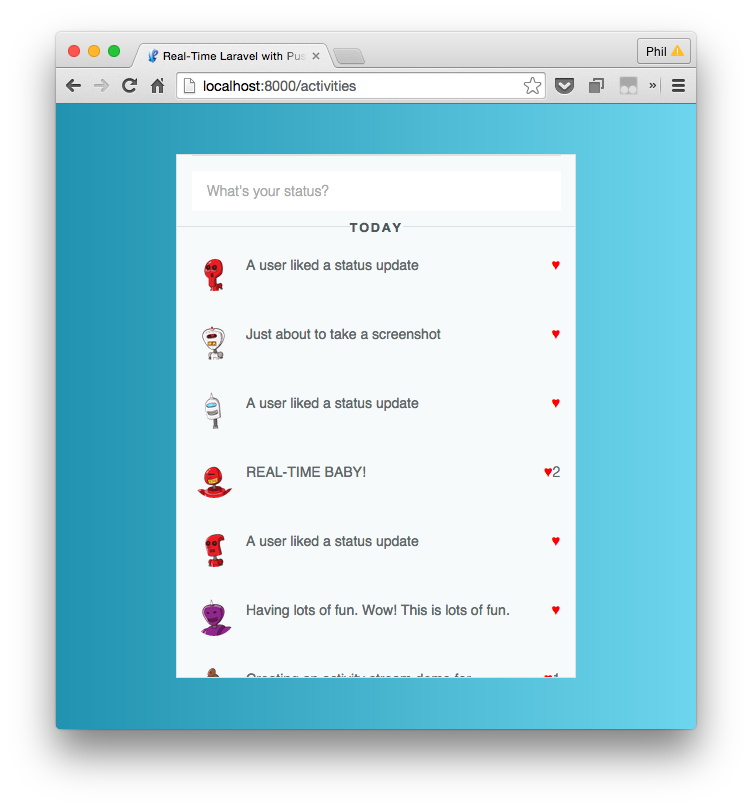
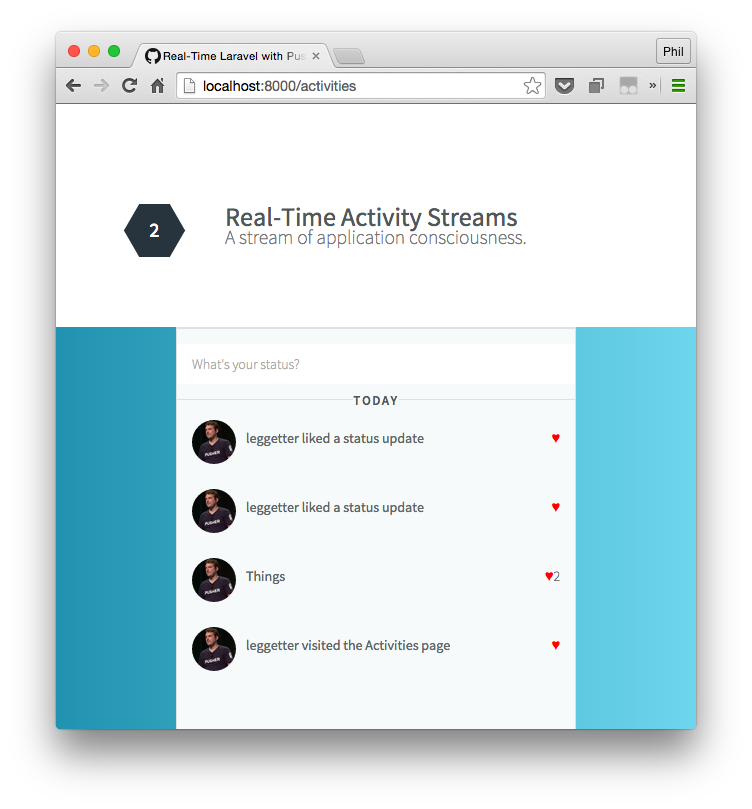
activity streams complete

diff --git a/_laravel_templates/activity-stream-tweaks.css b/_laravel_templates/activity-stream-tweaks.css
@@ -1,0 +1,42 @@
+.chat-app {
+    width: 400px;
+    margin: auto;
+    margin-top: 50px;
+}
+
+#status_form {
+    margin-bottom: 15px;
+    overflow: auto;
+}
+
+#status_text {
+    width: 100%;
+    padding-bottom: 10px;
+    margin-top: 15px;
+}
+
+#activities {
+    height: 400px;
+    max-height: 450px;
+    overflow: auto;
+}
+
+.chat-app .message:first-child {
+    margin-top: 15px;
+}
+
+.like-heart {
+    color: red;
+    cursor: pointer;
+}
+
+.message-data {
+    float: right;
+    margin-top: 9px !important;
+}
+
+.activity-text {
+    float: left;
+    width: 275px;
+    margin-top: 9px !important;
+}

diff --git a/assets/laravel_app/activity-stream-tweaks.css b/assets/laravel_app/activity-stream-tweaks.css
@@ -1,0 +1,42 @@
+.chat-app {
+    width: 400px;
+    margin: auto;
+    margin-top: 50px;
+}
+
+#status_form {
+    margin-bottom: 15px;
+    overflow: auto;
+}
+
+#status_text {
+    width: 100%;
+    padding-bottom: 10px;
+    margin-top: 15px;
+}
+
+#activities {
+    height: 450px;
+    max-height: 450px;
+    overflow: auto;
+}
+
+.chat-app .message:first-child {
+    margin-top: 15px;
+}
+
+.like-heart {
+    color: red;
+    cursor: pointer;
+}
+
+.message-data {
+    float: right;
+    margin-top: 9px !important;
+}
+
+.activity-text {
+    float: left;
+    width: 275px;
+    margin-top: 9px !important;
+}

diff --git a/_laravel_templates/activities.blade.php b/_laravel_templates/activities.blade.php
@@ -1,0 +1,177 @@
+<!DOCTYPE html>
+<html>
+<head>
+    <title>Real-Time Laravel with Pusher</title>
+    <meta name="csrf-token" content="{{ csrf_token() }}" />
+
+    <link href="//fonts.googleapis.com/css?family=Source+Sans+Pro:200,300,400,600,700,200italic,300italic" rel="stylesheet" type="text/css">
+    <link rel="stylesheet" type="text/css" href="http://d3dhju7igb20wy.cloudfront.net/assets/0-4-0/all-the-things.css" />
+    <link rel="stylesheet" type="text/css" href="https://pusher-community.github.io/real-time-laravel/assets/laravel_app/activity-stream-tweaks.css" />
+
+    <script src="//code.jquery.com/jquery-1.11.3.min.js"></script>
+    <script src="//js.pusher.com/3.0/pusher.min.js"></script>
+
+    <script>
+        // Ensure CSRF token is sent with AJAX requests
+        $.ajaxSetup({
+            headers: {
+                'X-CSRF-TOKEN': $('meta[name="csrf-token"]').attr('content')
+            }
+        });
+
+        // Added Pusher logging
+        Pusher.log = function(msg) {
+            console.log(msg);
+        };
+    </script>
+</head>
+<body>
+
+<div class="stripe no-padding-bottom numbered-stripe">
+    <div class="fixed wrapper">
+        <ol class="strong" start="2">
+            <li>
+                <div class="hexagon"></div>
+                <h2><b>Real-Time Activity Streams</b> <small>A stream of application consciousness.</small></h2>
+            </li>
+        </ol>
+    </div>
+</div>
+
+<section class="blue-gradient-background">
+    <div class="chat-app light-grey-blue-background">
+        <form id="status_form" action="/activities/status-update" method="post">
+            <div class="action-bar">
+                <input id="status_text" name="status_text" class="input-message col-xs-9" placeholder="What's your status?" />
+            </div>
+        </form>
+
+        <div class="time-divide">
+            <span class="date">
+              Today
+            </span>
+        </div>
+
+        <div id="activities"></div>
+    </div>
+</section>
+
+<script id="activity_template" type="text/template">
+    <div class="message activity">
+        <div class="avatar">
+            <img src="" />
+        </div>
+        <div class="text-display">
+            <p class="message-body activity-text"></p>
+            <div class="message-data">
+                <span class="timestamp"></span>
+                <span class="likes"><span class="like-heart">&hearts;</span><span class="like-count"></span></span>
+            </div>
+        </div>
+    </div>
+</script>
+
+<script>
+    function init() {
+        // set up form submission handling
+        $('#status_form').submit(statusUpdateSubmit);
+
+        // monitor clicks on activity elements
+        $('#activities').on('click', handleLikeClick);
+    }
+
+    // Handle the form submission
+    function statusUpdateSubmit() {
+        var statusText = $('#status_text').val();
+        if(statusText.length < 3) {
+            return;
+        }
+
+        // Build POST data and make AJAX request
+        var data = {status_text: statusText};
+        $.post('/activities/status-update', data).success(statusUpdateSuccess);
+
+        // Ensure the normal browser event doesn't take place
+        return false;
+    }
+
+    // Handle the success callback
+    function statusUpdateSuccess() {
+        $('#status_text').val('')
+        console.log('status update submitted');
+    }
+
+    // Creates an activity element from the template
+    function createActivityEl() {
+        var text = $('#activity_template').text();
+        var el = $(text);
+        return el;
+    }
+
+    // Handles the like (heart) element being clicked
+    function handleLikeClick(e) {
+        var el = $(e.srcElement || e.target);
+        if (el.hasClass('like-heart')) {
+            var activityEl = el.parents('.activity');
+            var activityId = activityEl.attr('data-activity-id');
+            sendLike(activityId);
+        }
+    }
+
+    // Makes a POST request to the server to indicate an activity being `liked`
+    function sendLike(id) {
+        $.post('/activities/like/' + id).success(likeSuccess);
+    }
+
+    // Success callback handler for the like POST
+    function likeSuccess() {
+        console.log('like posted');
+    }
+
+    // Increments the like count for an activity
+    function incrementLikeCount(id) {
+        var activityEl = $('#activities .activity[data-activity-id=' + id + ']');
+        var likeCountEl = activityEl.find('.like-count');
+        var currentCount = parseInt(likeCountEl.text() || 0, 10);
+        likeCountEl.text(++currentCount);
+    }
+
+    function addActivity(type, data) {
+        var activityEl = createActivityEl();
+        activityEl.addClass(type + '-activity');
+        activityEl.find('.activity-text').html(data.text);
+        activityEl.attr('data-activity-id', data.id);
+        activityEl.find('.avatar img').attr('src', data.avatar);
+
+        $('#activities').prepend(activityEl);
+    }
+
+    // Handle the user visited the activities page event
+    function addUserVisit(data) {
+        addActivity('user-visit', data);
+    }
+
+    // Handle the status update event
+    function addStatusUpdate(data) {
+        addActivity('status-update', data);
+    }
+
+    $(init);
+
+    /***********************************************/
+
+    var pusher = new Pusher('{{env("PUSHER_KEY")}}');
+
+    // TODO: Subscribe to the channel
+
+    // TODO: bind to each event on the channel
+    // and assign the appropriate handler
+    
+    // TODO: bind to the `status-update-liked` event
+    // and define your own callback handler function.
+    // If time, increment the like count for an activity.
+
+</script>
+
+</body>
+</html>

diff --git a/assets/laravel_app/notification.blade.php b/assets/laravel_app/notification.blade.php
@@ -44,7 +44,7 @@
     <div class="container center-all-container">
         <form id="notify_form" action="/notifications/notify" method="post">
             <input type="text" id="notify_text" name="notify_text"
-                   placeholder="What's the notification?" minlength="3" maxlength="50" required />
+                   placeholder="What's the notification?" minlength="3" maxlength="140" required />
         </form>
     </div>
 </section>

diff --git a/activity-streams/activities.md b/activity-streams/activities.md
@@ -13,15 +13,21 @@ We clearly don't have time to build a full social network. But we can support a 
 <i class="fa fa-rocket fa-2"></i> Update the controller using the code below:
 
 ```php
+namespace App\Http\Controllers;
+
+use Illuminate\Http\Request;
 use Illuminate\Support\Facades\App;
+use Illuminate\Support\Facades\Session;
 
 class ActivityController extends Controller
 {
     var $pusher;
+    var $user;
 
     public function __construct()
     {
         $this->pusher = App::make('pusher');
+        $this->user = Session::get('user');
     }
 
     /**
@@ -29,6 +35,18 @@ class ActivityController extends Controller
      */
     public function getIndex()
     {
+        if(!$this->user)
+        {
+            return redirect('auth/github?redirect=/activities');
+        }
+        
+        $activity = [
+            'text' => '...',
+            'username' => $this->user->getNickname(),
+            'avatar' => $this->user->getAvatar(),
+            'id' => str_random()
+        ];
+
         // TODO: trigger event
         return view('activities');
     }
@@ -53,7 +71,9 @@ class ActivityController extends Controller
 }
 ```
 
-<i class="fa fa-rocket fa-2"></i> And create a `resources/views/activities.blade.php` file and copy & paste the contents of [THIS TEMPLATE](#) into it.
+In the code above you'll notice that the `__construct()` attempts to grab the user from the `Session` and in `getIndex()` the value of `$this->user` is checked. If there isn't a logged in user the app redirects in order for the user to log in. By having a user we can identify who has triggered an activity event. There's an example in the code above of getting both the `username` and `avatar`. This can then be used when we trigger events via Pusher, and ultimately display that information in our user interface.
+
+<i class="fa fa-rocket fa-2"></i> The `ActivityController` reliease on an `activities` view so let's create that. Create a `resources/views/activities.blade.php` file and copy & paste the contents of [activities.blade.php](../assets/laravel_app/activities.blade.php) into it (or just copy over the file).
 
 <i class="fa fa-rocket fa-2"></i> Finally, add an entry to your `app/Http/routes.php`:
 
@@ -71,23 +91,28 @@ There are three potential types of activity in our `ActivityController`:
 2. A new status update has been posted
 3. A status update has been "liked"
 
-<i class="fa fa-rocket fa-2"></i> For each event (`user-visit`, `new-status-update` and `status-update-liked`) trigger an event on a `activities` channel. Each event should contain some `text` to display about the event and a unique `id`. Since we're not going to be using a database let's just use `str_random()` to generate a unique ID.
+<i class="fa fa-rocket fa-2"></i> For each event (`user-visit`, `new-status-update` and `status-update-liked`) trigger an event on a `activities` channel. Each event should contain some `text` to display about the event, a `username` and an `avatar` to identify who triggered the event, and a unique `id`. Since we're not going to be using a database let's just use `str_random()` to generate a unique ID.
 
 ```php
-$data = ['text' => 'activity text', `id` => 'a unique ID'];
+$activity = [
+    'text' => '...',
+    'username' => $this->user->getNickname(),
+    'avatar' => $this->user->getAvatar(),
+    'id' => str_random()
+];
 ```
 
-<i class="fa fa-rocket fa-2"></i> For the event that's triggered in the `postLike($id)` action also send the ID of the activity that the user liked on a `likedActivityId` property.
+<i class="fa fa-rocket fa-2"></i> For the event that's triggered in the `postLike($id)` action also send the ID of the activity that the user liked on a `likedActivityId` property using the `$id` value.
 
 ## Building the ActivityStream UI
 
-The view, defined in `resources/views/activities.blade.php`, already has some functionality, but you still need to hook up the real-time events.
+The view, defined in `resources/views/activities.blade.php`, already has some functionality, but you still need to hook up Pusher and the real-time events.
 
 ### User Visited
 
 Whenever the `/activities` endpoint (`getIndex()` action) is access a `user-visit` event is triggered on the `activities` channel. 
 
-<i class="fa fa-rocket fa-2"></i> If you haven't already done so, navigate to http://localhost:8000/activites endpoint in the browser and make sure the event is triggered by checking the Pusher Debug Console.
+<i class="fa fa-rocket fa-2"></i> If you haven't already done so, navigate to http://localhost:8000/activities endpoint in the browser and make sure the event is triggered by checking the Pusher Debug Console.
 
 <i class="fa fa-rocket fa-2"></i> Once you're sure the event is being triggered you can subscribe to the `activites` channel on the client and bind to the event. There's already a `addUserVisit` that can be used to handle the event and add an activity to the stream UI.
 
@@ -112,7 +137,7 @@ Finally we want to wire up the incoming `status-update-liked` and update the UI.
 
 <i class="fa fa-rocket fa-2"></i> This one hasn't been implemented for you. Here are the steps to help:
 
-* Bind to the event and create a callback handler
+* Bind to the event and create a callback handler function
 * Use the `addActivity(type, data)` function to add an activity stream element
 * *Stretch Task:* Identify the element for activity that's been liked via the `data.likedActivityId` value and add a "Liked Count" value to the element with the class `.like-count` indicating the number of times that activity has been liked
 

diff --git a/notifications/trigger.md b/notifications/trigger.md
@@ -39,7 +39,7 @@ For our simple app notifications will be manually triggered. To do this we need 
 * Enter some text to be shown in a notification
 * Submit a form indicating the notification should be triggered
 
-<i class="fa fa-rocket fa-2"></i> Create `resources/views/notification.blade.php` and copy & paste the contents of this <a href="../_laravel_templates/notification.blade.php" target="_blank">notification.blade.php template</a> into it (or simply copy over the file). It contains a number of `<script>` and CSS references including the Pusher JavaScript library and jQuery from a CDN, as well as a basic HTML structure for our notifications demo.
+<i class="fa fa-rocket fa-2"></i> Create `resources/views/notification.blade.php` and copy & paste the contents of this <a href="../assets/laravel_app/notification.blade.php" target="_blank">notification.blade.php template</a> into it (or simply copy over the file). It contains a number of `<script>` and CSS references including the Pusher JavaScript library and jQuery from a CDN, as well as a basic HTML structure for our notifications demo.
 
 <i class="fa fa-rocket fa-2"></i> Next, take a look at the `<form id="notify_form">` in the HTML. It will be used to capture the user input and eventually make a `POST` AJAX request to our `notifications/notify` route.
 
